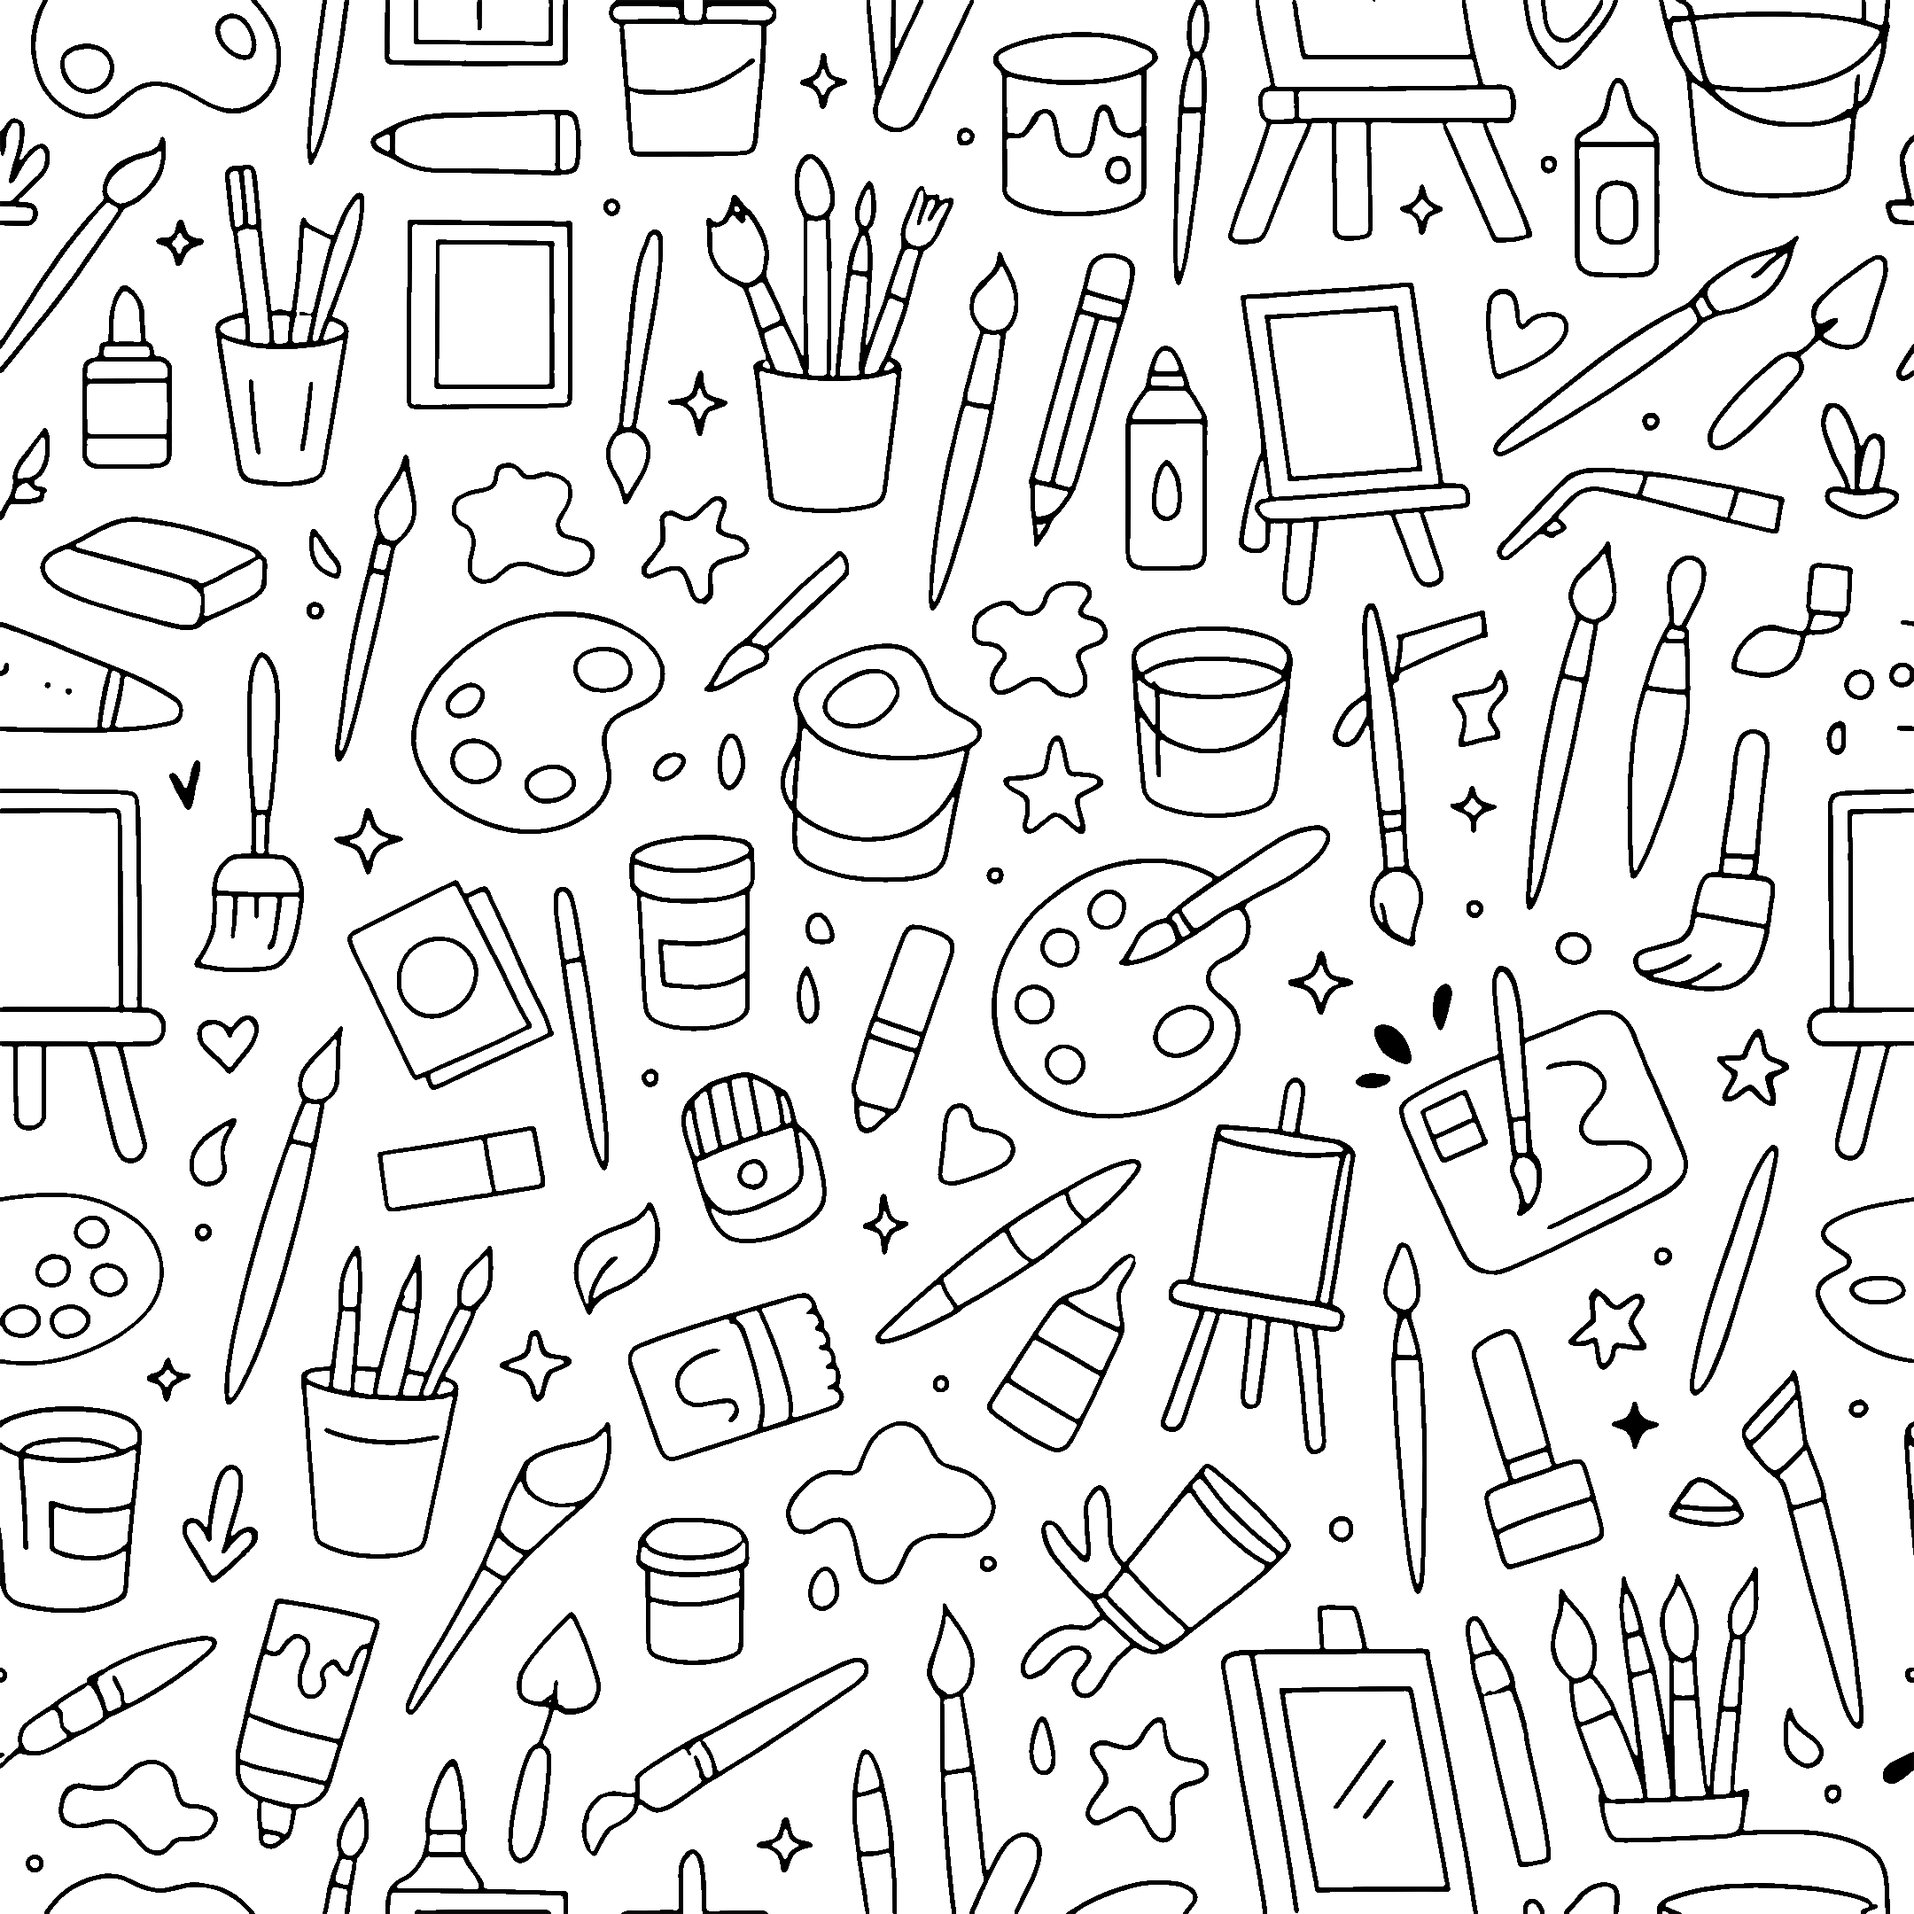
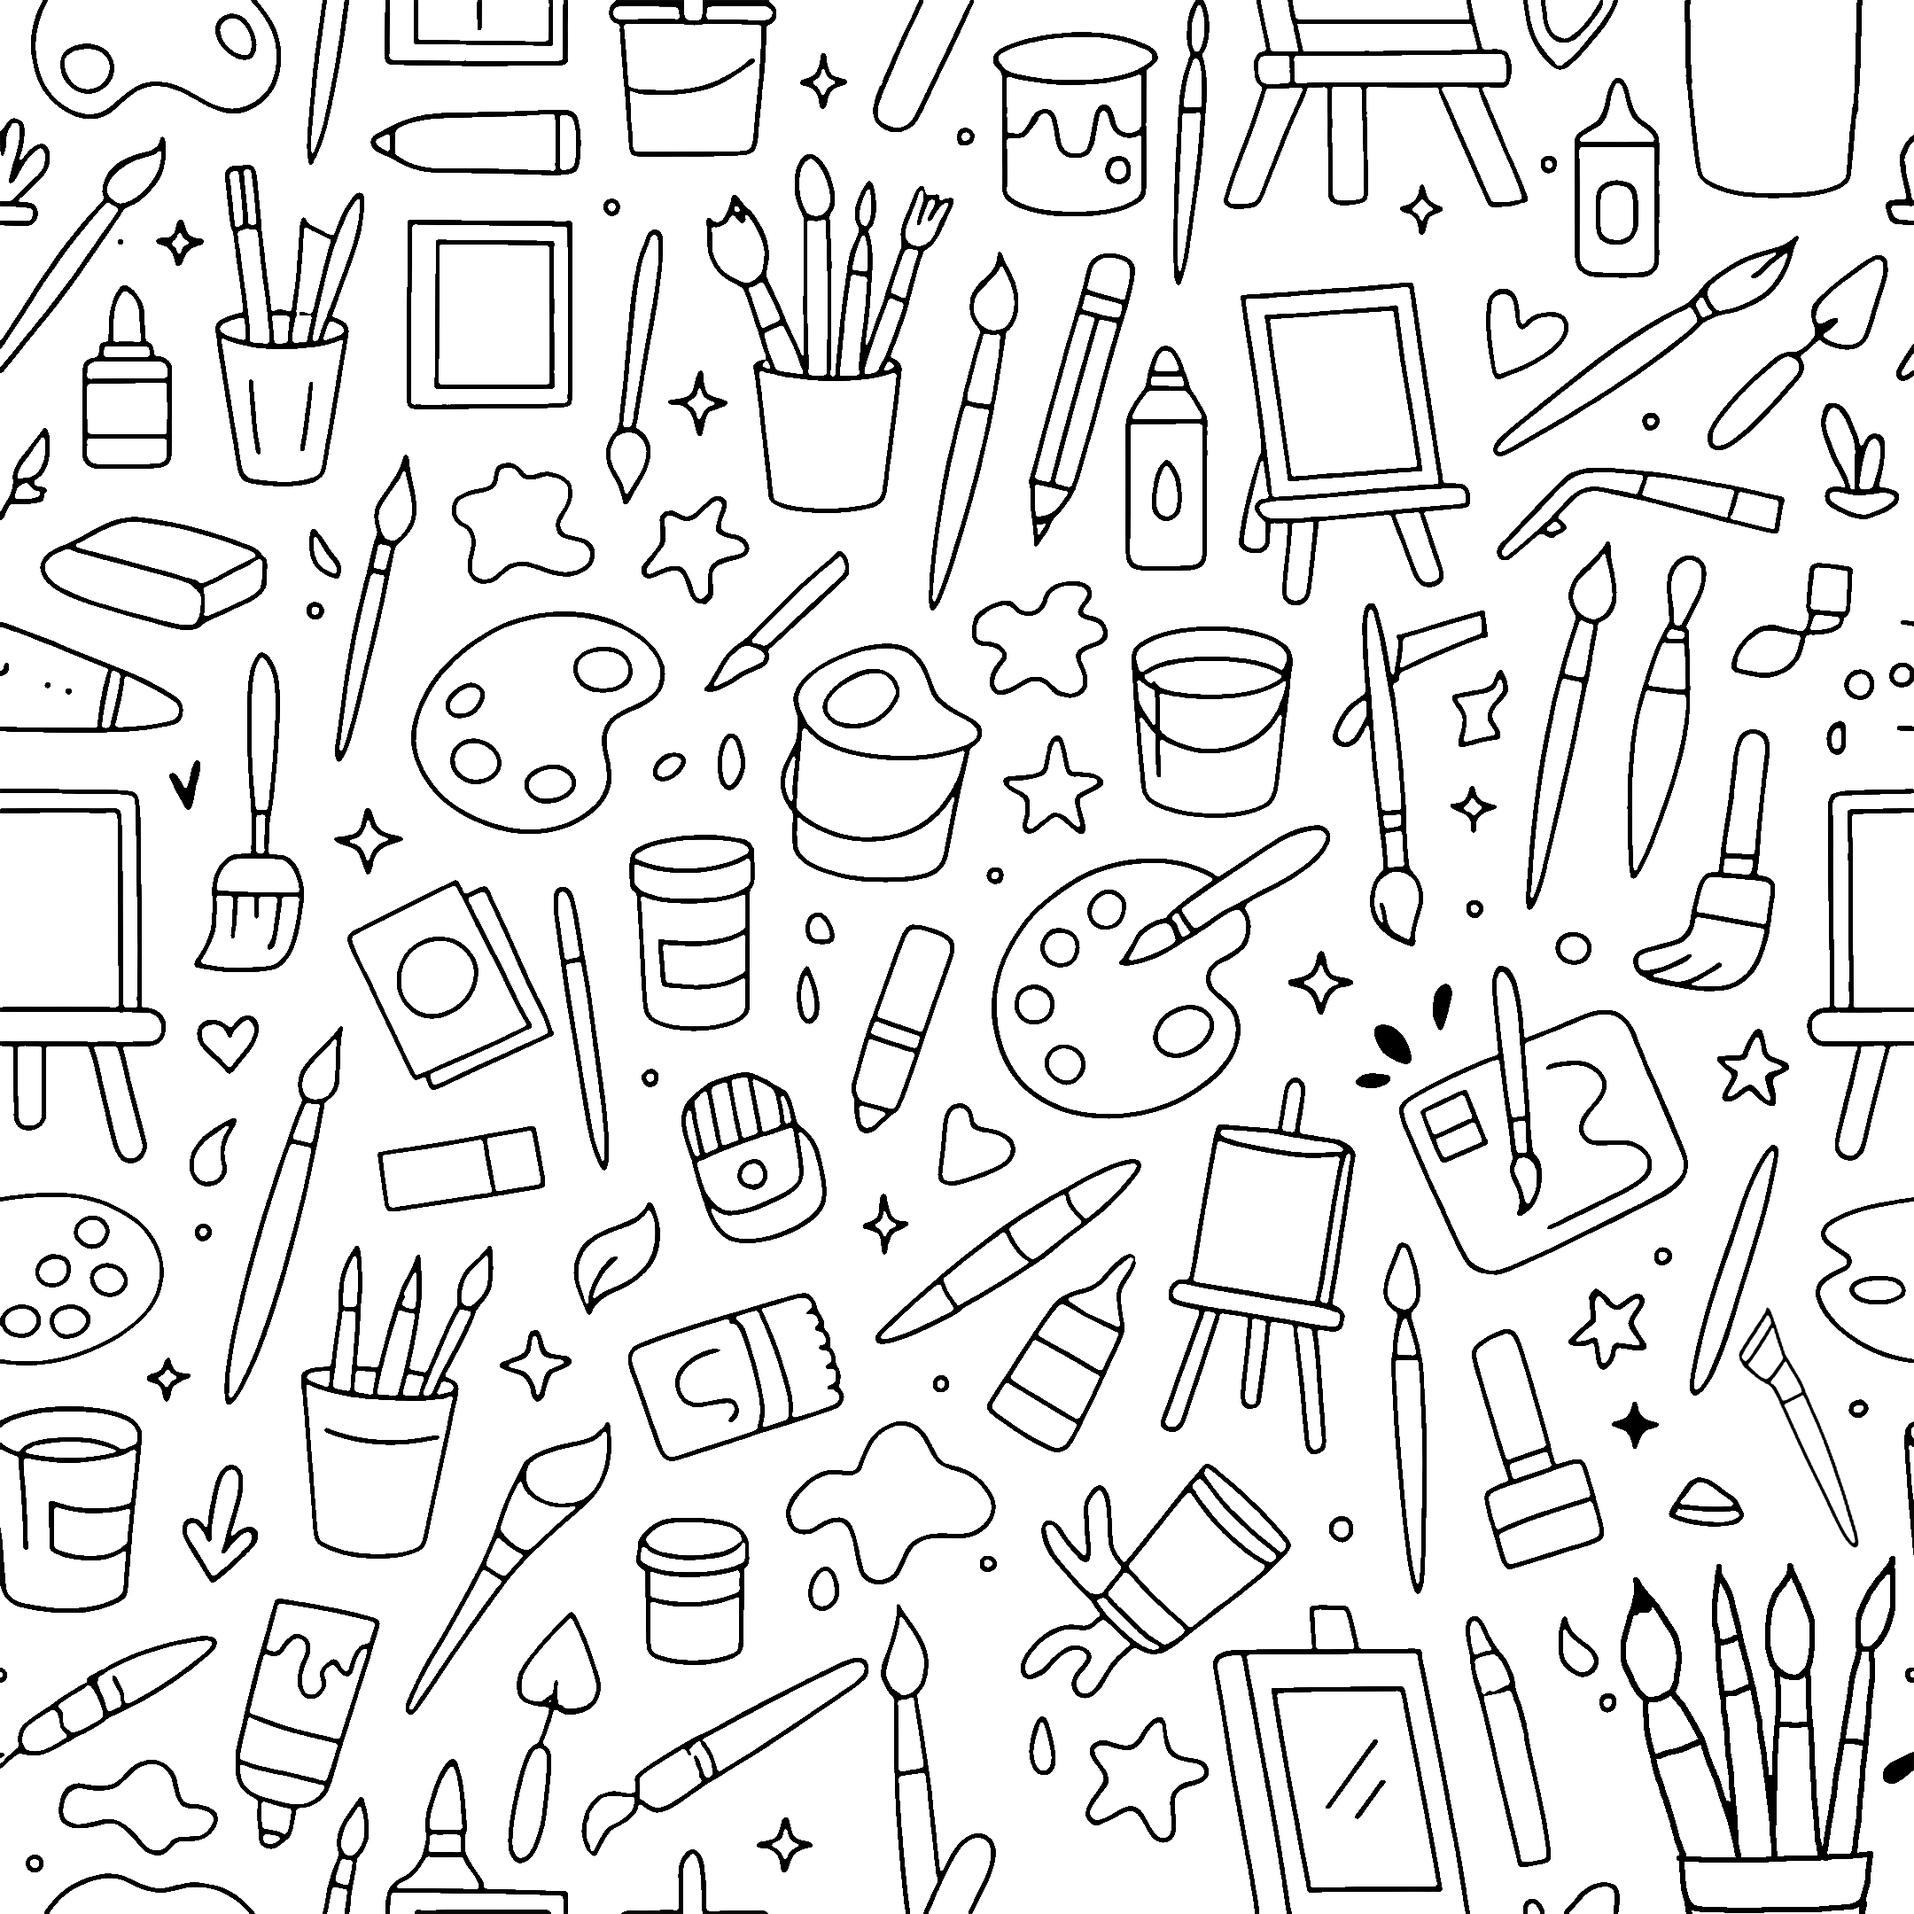
Improve homepage layout and scaling behavior
Updated CSS for better font, sizing, and container layout. Added auto-scaling logic in JS to adjust homepage container based on window size and prevent Ctrl+wheel zoom. Updated background image and minor HTML markup for improved appearance.

diff --git a/static/css/style.css b/static/css/style.css
@@ -1,8 +1,10 @@
 /* 基礎設定 */
 * {
+    font-family: 'openhuninn', 'Noto Sans TC', -apple-system, BlinkMacSystemFont, 'Segoe UI', sans-serif;
     margin: 0;
     padding: 0;
     box-sizing: border-box;
+    white-space: nowrap;
     -webkit-touch-callout: none;
     -moz-touch-callout: none;
     -ms-touch-callout: none;
@@ -70,6 +72,17 @@
     --font-sans: 'openhuninn', 'Noto Sans TC', -apple-system, BlinkMacSystemFont, 'Segoe UI', sans-serif;
 }
 
+h1 {
+    font-size: 40px;
+    font-weight: bold;
+    color: var(--text-primary);
+
+}
+
+p {
+    font-size: 20px;
+}
+
 body {
     display: flex;
     flex-direction: column;
@@ -84,6 +97,17 @@ body {
     line-height: 1.6;
     overflow-x: hidden;
     min-height: 100vh;
+    animation: scrollBackground 300s linear infinite;
+}
+
+@keyframes scrollBackground {
+    0% {
+        background-position: center 0, center 0;
+    }
+
+    100% {
+        background-position: center 0, center -2000%;
+    }
 }
 
 
@@ -93,13 +117,21 @@ body {
     flex-direction: column;
     align-items: center;
     justify-content: space-between;
-    height: 40vh;
-    width: 30vw;
     padding: 20px;
     background: var(--primary-bg);
     border: 5px solid var(--secondary-color);
     border-radius: 12px;
-    aspect-ratio: 12/9;
+    width: 700px;
+    /* 固定寬度 - 這是"畫布"大小 */
+    height: 500px;
+    /* 固定高度 */
+    min-width: 0px;
+    /* 防止容器被壓縮 */
+    min-height: 0px;
+    /* 防止容器被壓縮 */
+    transform-origin: center center;
+    overflow: hidden;
+    flex-shrink: 0;
 }
 
 .create-join-room {
@@ -108,7 +140,7 @@ body {
     display: flex;
     flex-direction: row;
     flex-wrap: nowrap;
-    justify-content: space-around;
+    justify-content: space-evenly;
     align-items: center;
 }
 

diff --git a/static/js/socket-client.js b/static/js/socket-client.js
@@ -350,3 +350,32 @@ document.addEventListener('DOMContentLoaded', () => {
     window.socketClient.connect();
     window.socketClient.startHeartbeat();
 });
+
+document.addEventListener('wheel', function (e) {
+    if (e.ctrlKey) {
+        e.preventDefault(); // 阻止 Ctrl+滾輪縮放
+    }
+}, {
+    passive: false
+});
+
+function updateAutoScale() {
+    const container = document.getElementById('homepage-container');
+    // 1. 獲取當前視窗尺寸
+    const windowWidth = window.innerWidth;
+    const windowHeight = window.innerHeight;
+
+    // 2. 計算兩個方向的縮放比例
+    const scaleX = windowWidth / 1200; // 基準寬度
+    const scaleY = windowHeight / 800; // 基準高度
+
+    // 3. 選擇較小比例（確保完全可見）
+    const scale = Math.min(scaleX, scaleY) * 0.95; // 留 5% 邊距
+
+    // 4. 應用縮放（關鍵！）
+    container.style.transform = `scale(${scale})`;
+}
+
+// 5. 監聽視窗變化
+window.addEventListener('resize', updateAutoScale);
+window.addEventListener('load', updateAutoScale);

diff --git a/templates/index.html b/templates/index.html
@@ -32,7 +32,7 @@
                 </button>
             </div>
             <div class="or-divider">
-                <span>或</span>
+                <p>或</p>
             </div>
             <div class="room-action">
                 <input class="text-input" type="text" id="room-code" name="name" maxlength="10" size="10"
